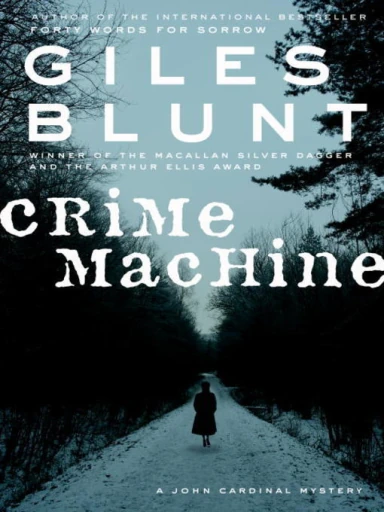
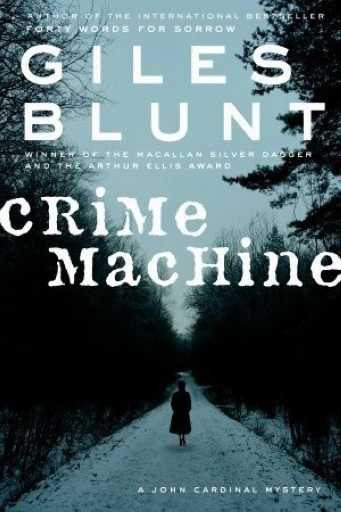
03/11/2026 - Revision 1
-Updated album of the day
-Corrected aspect ratio of Crime Machine by Giles Blunt
-Fixed overpopulation glitch on the books and albums waterfall
-Published "Listening to Music on CDs and iPods in 2026" on the blog

diff --git a/blog/index.html b/blog/index.html
@@ -33,6 +33,17 @@
     </div>
     
     <div class="blogosphere-recent-box">
+        <div class="blogosphere-recent-image" style="background-image: url('/blog/resources/2026-03-06_0.webp');"></div>
+        <div class="blogosphere-genre-tag bg-music">Music</div>
+        <a href="/blog/generated/2026-03-06-cd-ipod-music-listening.html">
+            <div class="blogosphere-recent-body body-fill outsideborder win-bluebutton" style="border-width: 5px;">
+                <div class="blogosphere-recent-title">Listening to Music on CDs and iPods in 2026</div>
+                <div class="blogosphere-recent-date">2026-03-06</div>
+            </div>
+        </a>
+    </div>
+    
+    <div class="blogosphere-recent-box">
         <div class="blogosphere-recent-image" style="background-image: url('/blog/resources/2026-03-02_0.webp');"></div>
         <div class="blogosphere-genre-tag bg-general">General</div>
         <a href="/blog/generated/2026-03-02-rideau-canal-skateway.html">
@@ -50,17 +61,6 @@
             <div class="blogosphere-recent-body body-fill outsideborder win-bluebutton" style="border-width: 5px;">
                 <div class="blogosphere-recent-title">Two Months At The Mayfair</div>
                 <div class="blogosphere-recent-date">2026-02-27</div>
-            </div>
-        </a>
-    </div>
-    
-    <div class="blogosphere-recent-box">
-        <div class="blogosphere-recent-image" style="background-image: url('/blog/resources/2026-02-24_0.webp');"></div>
-        <div class="blogosphere-genre-tag bg-general">General</div>
-        <a href="/blog/generated/2026-02-24-a-blog-from-scratch.html">
-            <div class="blogosphere-recent-body body-fill outsideborder win-bluebutton" style="border-width: 5px;">
-                <div class="blogosphere-recent-title">A Blog From Scratch</div>
-                <div class="blogosphere-recent-date">2026-02-24</div>
             </div>
         </a>
     </div>

diff --git a/blog/index-music.html b/blog/index-music.html
@@ -35,6 +35,16 @@
                         <div class="blogosphere-post-container">
                             
             <div class="blogosphere-post-rect">
+                <div class="blogosphere-post-image" style="background-image: url('/blog/resources/2026-03-06_0.webp');"></div>
+                <a href="/blog/generated/2026-03-06-cd-ipod-music-listening.html">
+                    <div class="blogosphere-post-body body-fill outsideborder win-bluebutton" style="border-width: 5px;">
+                        <div class="blogosphere-recent-title">Listening to Music on CDs and iPods in 2026</div>
+                        <div class="blogosphere-recent-date">2026-03-06</div>
+                    </div>
+                </a>
+            </div>
+            
+            <div class="blogosphere-post-rect">
                 <div class="blogosphere-post-image" style="background-image: url('/blog/resources/2026-01-08_0.webp');"></div>
                 <a href="/blog/generated/2026-01-08-albums-turning.html">
                     <div class="blogosphere-post-body body-fill outsideborder win-bluebutton" style="border-width: 5px;">

diff --git a/pages/main/changelog.html b/pages/main/changelog.html
@@ -51,6 +51,11 @@
             <h1>
                 The Changelog 
             </h1>
+            <h2>03/11/26–1 Commit</h2>
+                <li>Updated album of the day</li>
+                <li>Corrected aspect ratio of Crime Machine by Giles Blunt</li>
+                <li>Fixed overpopulation glitch on the books and albums waterfall</li>
+                <li>Published "Listening to Music on CDs and iPods in 2026" on the blog</li>
             <h2>03/10/26–3 Commits</h2>
                 <li>Updated album of the day</li>
                 <li>Updated read books</li>
@@ -61,6 +66,7 @@
                 <li>Added Walking With Cavemen to VHS shelf</li>
                 <li>Added visual effects to the VHS shelf</li>
                 <li>Configured favourite track highlights for remaining album reviews</li>
+                <li>Published blog post with a Ringworld review</li>
             <h2>03/09/26–1 Commit</h2>
                 <li>Updated album of the day</li>
                 <li>Updated concerts database</li>

diff --git a/scripts/scrollingAlbums.js b/scripts/scrollingAlbums.js
@@ -52,6 +52,10 @@ function resetAlbum(album) {
     const totalTime = duration * 1500;
     setTimeout(() => {
         resetAlbum(album);
+        if (albumImages.length > 3)
+        {
+            album.remove();
+        }
     }, totalTime);
 }
 

diff --git a/scripts/scrollingBooks.js b/scripts/scrollingBooks.js
@@ -52,6 +52,10 @@ function resetbook(book) {
     const totalTime = duration * 1500;
     setTimeout(() => {
         resetbook(book);
+        if (bookImages.length > 3)
+        {
+            book.remove();
+        }
     }, totalTime);
 }
 

diff --git a/blog/posts/2026-03-06-cd-ipod-music-listening.md b/blog/posts/2026-03-06-cd-ipod-music-listening.md
@@ -1,0 +1,139 @@
+---
+title: Listening to Music on CDs and iPods in 2026
+date: 2026-03-06
+slug: 2026-03-06-cd-ipod-music-listening
+category: music
+tags:
+    - iPod
+    - CD
+    - Essay
+---
+
+I haven’t streamed music in well over three years at the time of writing, and I haven’t looked back. When I’m at home, I’ve got my ever-growing CD collection and when I’m out and about, I’ve got an iPod. I never have to deal with internet connectivity issues, downloading songs and having to pay monthly subscriptions. 
+
+It sounds fantastic, doesn’t it? Well, it is—but I don’t think it’s for everyone. 
+
+###THE STREAMING PROBLEM
+
+<div class="blog-image blog-image blog-image-right"><img src="/blog/resources/2026-03-06_DSC_1940_01.webp"><span>A stack of albums I listened to often in the Spring of 2025</span></div>
+
+Growing up, I listened to music from my parents’ CD collection and iTunes libraries. I was born on the tail-end of the Compact Disc’s rule; the format’s dominance blended into the short-lived iTunes era before streaming became the endgame for music-listening. 
+
+Streaming, for all practical intents and purposes, is a very convenient way to listen to music. People who want to listen to a song don’t have to buy an entire album or even pay per individual track to get their fix. After my parents gave away their CDs and iTunes no longer made sense, I used the free tier of Spotify before subscribing and becoming a premium user for a while. 
+
+At first, it seemed great; almost every song you could imagine right there at your fingertips. I added the albums I liked to my library and threw together a couple of playlists; it was great. 
+
+Over time, I realized that I’m not the market audience for something like Spotify. I love music and I listen to it all day, every day, but I listen to full albums. Spotify is like a popularity-contest social media platform—it shoves recommendations in your face, tries to get you to watch vertical videos and doesn’t really care for the album experience. 
+
+I never used the Discover Weekly playlists because none of it ever appealed to me; while others seem to enjoy setting it on autopilot and having the algorithm decide what they wanted to listen to, I’ve always been much more deliberate. Neither way is the right way, but when the entire app is built on that social media autopilot philosophy, it’s just not going to work out. 
+
+Spotify’s compression algorithm doesn’t sound very good to me. To this day, you can download songs off the net and it’ll sound better than Spotify because it’s uncompressed or just straight up sourced off a CD. This isn’t a problem for most people, but it’s something I noticed after a while. 
+
+Over time, record labels add new editions of albums—“Super Mega Deluxe” editions with forty-eight songs which really shouldn’t be there. It’s not convenient to have to make a playlist for each Super Mega Deluxe album with the original track-list—it starts to feel idiotic when you’re jumping through hoops like that. Add the fact that modern devices don’t have enough storage space to download entire albums and I don’t pay for mobile data, and you quickly realize it isn’t for you.
+
+I dumped Spotify and switched to Apple Music. I liked it more right off the bat; there are a lot less distractions because the app is based on Apple’s built-in music player. The music sounds a lot better because of Apple’s AAC format, and there were some albums which Apple Music had that Spotify didn’t. 
+
+The Dolby Atmos mixes of albums like The Dark Side of The Moon absolutely blew me away and the interface overall seemed more intuitive. 
+
+For a time, I was happier, but I knew that this couldn’t last forever. 
+
+###LISTENING HABITS – DISCOVERY & RENAISSANCE
+
+<div class="blog-image blog-image-med blog-image-left"><img src="/blog/resources/2026-03-06_DSC_7122_04.webp"><span><i>An Der Schonen, Blauen Donau</i>—one of my all-time favourite classical releases and one of the first Compact Discs to be released in the early 1980's. Note the smooth top and bottoms of the Jewel Case. This release sounds like liquid gold!</span></div>
+
+Seven years ago, around the same time I started using Spotify’s free tier, I started a CD collection. It was something I always wanted having grown up with them; it was just how I always imagined my life to be. The buildup has always been slow—I rarely ever buy albums new, preferring to frequent Thrift Stores and get them for a dollar or two each. 
+
+After around a year or two of collecting, I was still discovering some music on Spotify, but I would mostly just stream the digital versions of the albums I had physically. It doesn’t make sense, but that’s just how I listen to music. I have a hard time jumping into a new album because that always feels like a big event, and in many ways, it is. 
+
+Discovery is a magical, cathartic phase which I treasure because you can only ever listen to something once. I’ll stick with an album and listen to it over and over again until the dopamine stops, and by then, I’ll have learned to truly appreciate every track. Sometimes its weeks, and sometimes it doesn’t leave my rotation for months. 
+
+After that honeymoon discovery phase pitters out, I’ll listen to it on occasion until something clicks and it goes through what I call a “Renaissance.” I’ve found that no matter what album it is, if I enjoyed it tremendously once, it will always have a renaissance eventually where it returns to the top of my rotation. I don’t skip tracks—I just listen to the whole thing front to back how the artist intended it. Simply by listening, I’ve come to appreciate every album in my collection as it grows steadily. 
+
+<div class="blog-image blog-image blog-image-right"><img src="/blog/resources/2026-03-06_DSC_15749_11.webp"><span>The Rush and Phil Collins section of my collection.</span></div>
+
+I never found the algorithm on Spotify or Apple Music to be of much help recommending music. Sometimes when I go to a thrift store, I’ll see an album I think I’ll like and I buy it; I’ve got a pretty good feel for that. Sometimes I’ll buy an album simply because I’ve heard people or the collective conscience speak highly of it. People will recommend albums and artists to me and I’ll seek copies of them out in the world to enjoy rather than just seeking it out on the net. 
+
+Discovery, for me, has been slow and organic—just the way I like it. I wouldn’t rush into a relationship with a woman, so why would I rush into a relationship with an album? Sure there’s the anticipation, excitement and pleasure of getting to know her, but none of that can be rushed, nor should it be treated as disposable. 
+
+It means that albums have a natural entry into my life; it’s something I could never reconcile when I would try and discover new albums on a streaming service. How do you decide when to move on from your current phase and discover something new? Albums never enter your life when streaming, they’re forced down your throat or you have to seek them out. 
+
+There are many ways to listen to music and discover it, and I’ve found that this way works best for me and how I consume media. Whatever it is—and it’s all in my head—something isn’t compatible with the way streaming services are set up. There’s no guy at the record store to enthuse about something, nor is there limited stock—you’re just flooded by too much choice.
+
+###LISTENING TO MUSIC – BUILDING A LIBRARY
+
+<div class="blog-image blog-image-med blog-image-left"><img src="/blog/resources/2026-03-06_DSC_26482_10.webp"><span>My first-generation iPod Touch which I used daily throughout the 2010's and later in the early 2020's before I bought the endgame iPod Classic.</span></div>
+
+As time went on, I was increasingly frustrated by the caveats of streaming. At home, I would happily listen to music on my ever-growing Hi-Fi stack—it started with Sony bookshelf stereos and turned into a real audio system when I found a Sony 5-Disc CD Changer at a thrift store for cheap. 
+
+I’ve got a magnificent stack of all thrifted Sony machines sitting in my room with which I consume media—the aforementioned 5-Disc changer, a tape deck, a receiver/amplifier, a DVD player and a VCR. 
+
+My Sony CDP-E315 doesn’t need the internet and there’s no irritating interface which gets constantly changed and updated. There are no distractions when plucking an album off the shelf and queuing it up. Those who listen to Vinyl will understand this aspect. 
+
+As my collection grew in size and hit around 400 albums, there was really no need to stream anymore. I decided that it was silly to pay an ever-increasing amount per month when I could spend that on a couple of used CDs I own perpetually and I enjoy more. I decided that anything I didn’t own I wouldn’t listen to since there’s plenty to enjoy already—I can just wait until I find copies of it if I want it. 
+
+The problem was how I would listen to music on the go. As a trial run, I dug out my old first-generation iPod Touch and loaded it with 320kb/s AAC files—compressed copies of my CDs which were higher quality than Spotify and roughly the same quality as Apple Music. 
+
+I never streamed again after that. 
+
+###A COMPLETE LISTENING SETUP
+
+<div class="blog-image blog-image-med blog-image-right"><img src="/blog/resources/2026-03-06_DSC_2253_02.webp"><span>A companion on all my adventures: my iPod. Here, I was on a bike ride enjoying some Genesis—I listened to "The Battle of Epping Forest"...in a forest. The screen discoloratino is due to a UV filter on my lens and some white-balance weirdness</span></div>
+
+It quickly became apparent as my collection grew that the 8GB iPod Touch wasn’t going to cut it forever. I bought myself a 7th Generation iPod Classic off eBay and modded it to have a bigger battery and 512GB of MicroSD flash storage. I enjoy taking things apart and finagling with them so it was pretty easy with the help of online guides—much easier than fixing old Hi-Fi equipment. 
+
+I’ve been using that iPod now for three years whenever I’m on the go, and I listen to my CDs when I’m at home. I’ve since re-ripped my entire collection as lossless FLAC files so I’ve got full CD-quality music all the time at my fingertips. I find it very convenient and I like it a lot; there’s just no fuss with it most of the time. 
+
+The iPod fits in the small coin pocket of my shorts or jeans almost perfectly, I don’t have to deal with the stupidity of Bluetooth earbuds and there are no distractions or limitations—just music. I’ve never run out of battery and I never charge the iPod, either; the charge trickles when I sync it every couple of days and it seemingly lasts perpetually. 
+
+At around 730 albums, you might think that I’m drowning in too much choice like I said earlier with streaming. This is far from the case. Because I built up this library slowly and deliberately, it doesn’t feel nearly as fast as the number sounds. I know almost every one of those albums intimately track-by-track because I’ve curated it so carefully. 
+
+I have complete control over which releases and masters of albums I have in my collection; again, something not many people think of, but it’s something which became important to me when realizing the sheer difference in quality between original masters and so-called “remasters”. That’s a story for another day, though. 
+
+I enjoy my routines of scroll-wheeling through my library on the iPod or even just staring at my shelves filled with the albums which make me who I am today. I love reading through the booklets or admiring the album art. I love handling the discs and coming to know all the eras of moulds and jewel cases. 
+
+I’ve also calculated that I’ve actually spent less money over the past seven years buying CDs than I have/would have spent streaming—a crossover point which is becoming increasingly distant with the ever-rising costs of streaming services.
+
+###THE CAVEATS
+
+<div class="blog-image blog-image blog-image-right"><img src="/blog/resources/2026-03-06_DSC_8814_06.webp"><span>The innards of my iPod—the expanded battery and headphone jack/hold switch.</span></div>
+
+Like I said earlier, I don’t think that this is for everyone. I don’t think that everyone should go back to listening on CDs, Vinyl and MP3 players as many people online seem to be evangelizing. 
+
+I’m a certain kind of persnickety person and listener. It takes a certain kind of persnickety to fixate on individual masters of albums, repair broken stereo equipment and maintain a massive library. 
+
+Personally, I don’t like Vinyl as a practical format because of the amount of care you have to exercise over records with dusting, tone-arms, needles and sleeves. It just feels clunky and overwrought. I enjoy the crisp perfection of a CD, their easily replaceable jewel cases and the fact that it works so well as a versatile format in this digital age. 
+
+It is, admittedly, sometimes very inconvenient to listen to music the way I do. Unless I go search it up on YouTube, I don’t listen to songs or albums when they first come out. Unless it’s a band I really like, I’m not going to show up at a record store day one and spend on a full-priced album. 
+
+I also recognize that there is a lot of music which now only exists digitally. This isn’t usually a problem for me since I’m not into a lot of the super modern rap-based, hip-hop-based or electronic-based music, but I know that I’m missing out some really kick-ass stuff I’d otherwise like. 
+
+The only way to rationalize this is that music has been around for so long that you don’t really need to fixate on everything that’s new since there’s so much which already exists. I don’t really read books as soon as they come out because there’s already so many books already published which I want to read and are more readily available. A good amount of the time, if an album is popular enough, I’ll grab it on CD as soon as it begins circulating at my public library. The library is another great way I discover music because it too is a collection which has been curated by groups of people. 
+
+<div class="blog-image blog-image blog-image-left"><img src="/blog/resources/2026-03-06_DSC_8844_07.webp"><span>A macro shot of the headphone jack on my iPod.</span></div>
+
+Stuff breaks, too. I’ve had two bookshelf stereos give out on me in the three years I was using them since their CD mechanisms weren’t designed for the amount of use I put them through. My CD changer has held up much better since it’s originally more expensive, proper hi-fi gear, but I know that it too will eventually run into issues. 
+
+I bought my tape deck, VCR and DVD player all broken at heavy discounts, and I fixed them after flipping through old service manuals I found online. I still have to regularly service my tape deck so that it runs smoothly; these things aren’t for everyone, though it’s not a problem you’d really run into if you bought things brand new. 
+
+The same goes for the iPod. The reality is that it’s an almost twenty year old device—well-past a full drivers license, legal drinking age and the minimum requirement to set up a retirement savings plan.
+
+The headphone jack, especially when you carry it around in your pants around the belt all day, does get worn down over time. I’ve had to replace it twice, which isn’t really bad in two years considering the amount of use I get out of it, and that the part is less than $10. Still, it’s something to consider. 
+
+The thing I think would be the most inconvenient for people is the sourcing of the music files, library management and the impracticalities of syncing. I only have to sync my iPod every couple of days to periodically update my playlists, but there are many people who live off playlists. If you want your podcasts updated every day, you’ve got to remember to plug in the iPod and sync it. It’ll become part of your routine, but it is a deliberate consideration which has to be made. 
+
+The music doesn’t come easily from the void like it does in streaming. You won’t have the convenience of searching up that one song someone recommended—if you really want it, you’ve got to find a source, download it, import it and then sync it. 
+
+I like being very persnickety with my iTunes library. I’ve got every single album ripped in lossless ALAC format with the album art scanned at 1500x1500 pixels. Almost all the metadata fields are filled out, and I’ve even adjusted the Sort Order so that albums appear in proper chronological order. It’s not something that everyone is going to want to do—I just happen to enjoy such tasks.
+
+It’s a very different way of listening to music than streaming. In the way that journalists called my generation “Internet Natives”, there are people who are native to the album and physical media era, and those who are native to this current streaming era. I imagine it would be difficult for someone to adjust to an objectively more inconvenient and impractical way of listening to music if they’ve grown up with something convenient—and even if you start, it’s difficult for many to keep it going and stick with it. 
+
+###WHAT YOU SHOULD DO
+
+<div class="blog-image blog-image blog-image-right"><img src="/blog/resources/2026-03-06_DSC_12818_08.webp"><span>A now outdated photo of my Hi-Fi stack—this is before I got the new, matching, Sony VCR.</span></div>
+
+It’s easy for me to go all-in on physical media because that’s how I’m built, mentally; it’s the kind of music-listener I am, and it works for the kinds of music that I’m into. 
+At the end of the day—and this is the most important part—I listen to music on the Compact Disc and my iPod Classic not because it saves money, not because it’s practical or because I feel it’s better than streaming. 
+
+It’s for the **love of the game**—that’s the only reason why you should do *anything*. 
+
+I do this because my younger self would’ve thought it was absolutely wicked that I’ve got shelves of well-known and random bands from every era spanning many genres. I love  music more than probably anything else in this world, and it’s my way of immersing myself in it as deeply as I can. 
